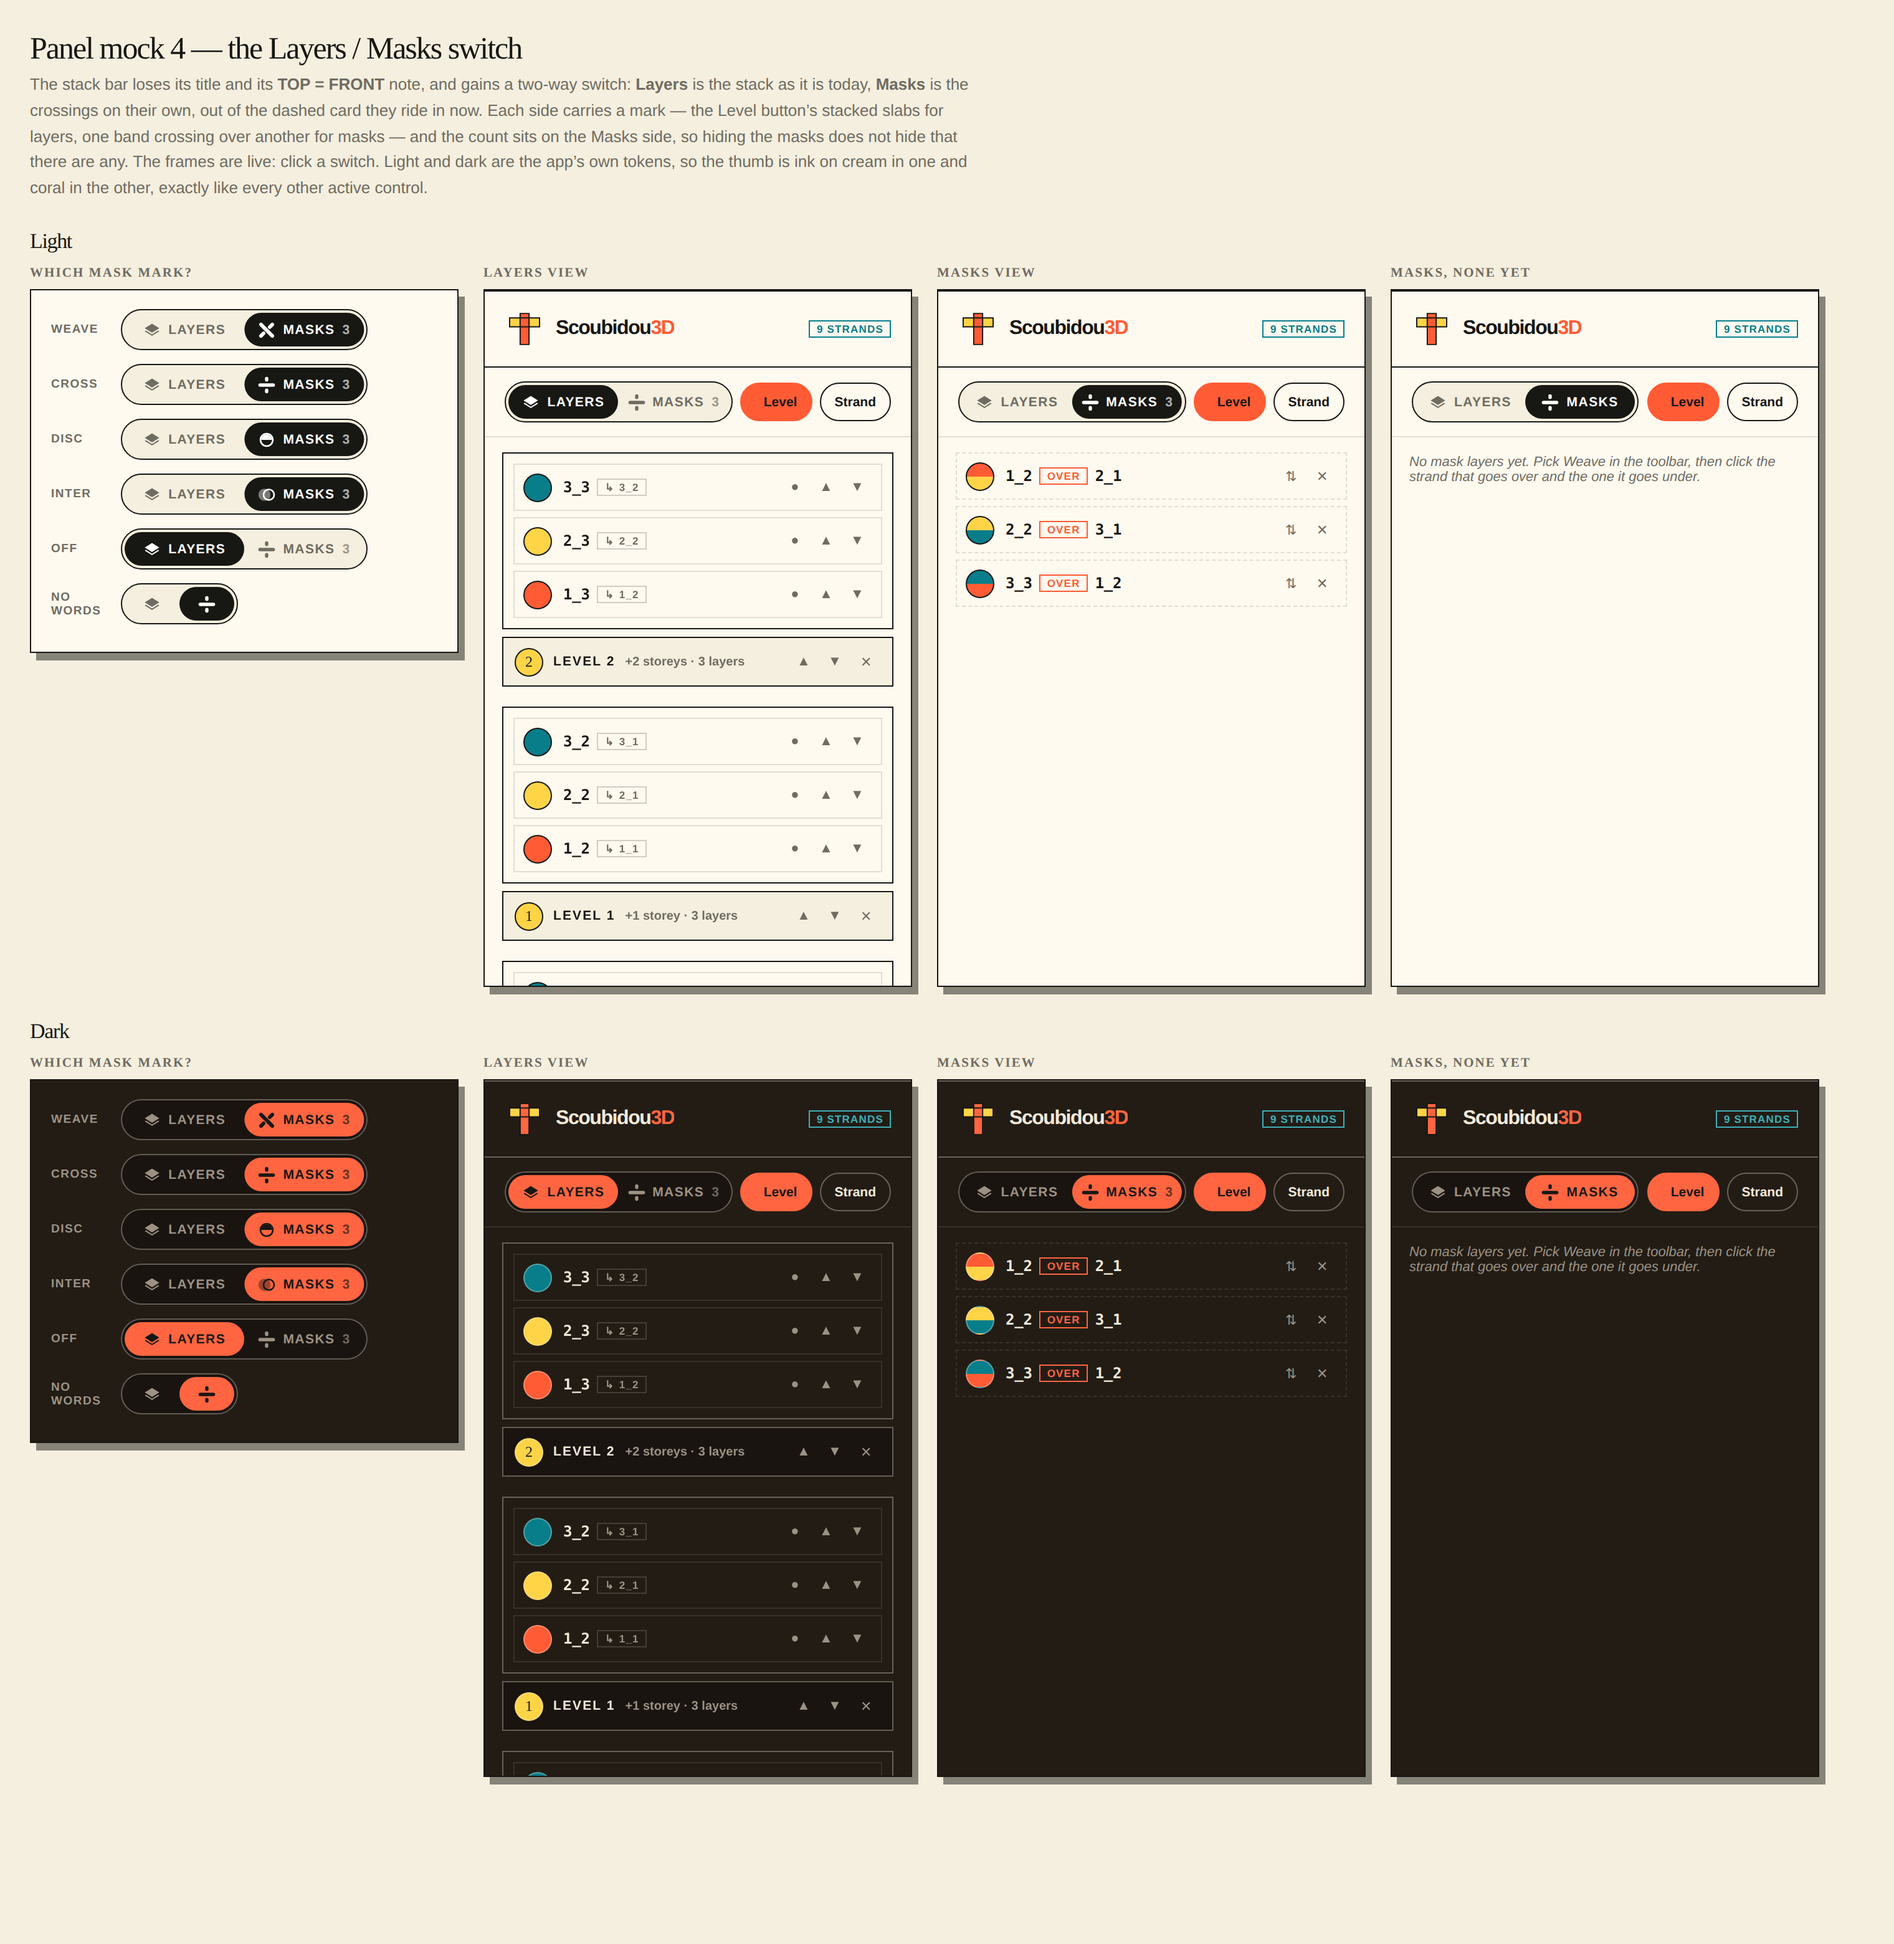
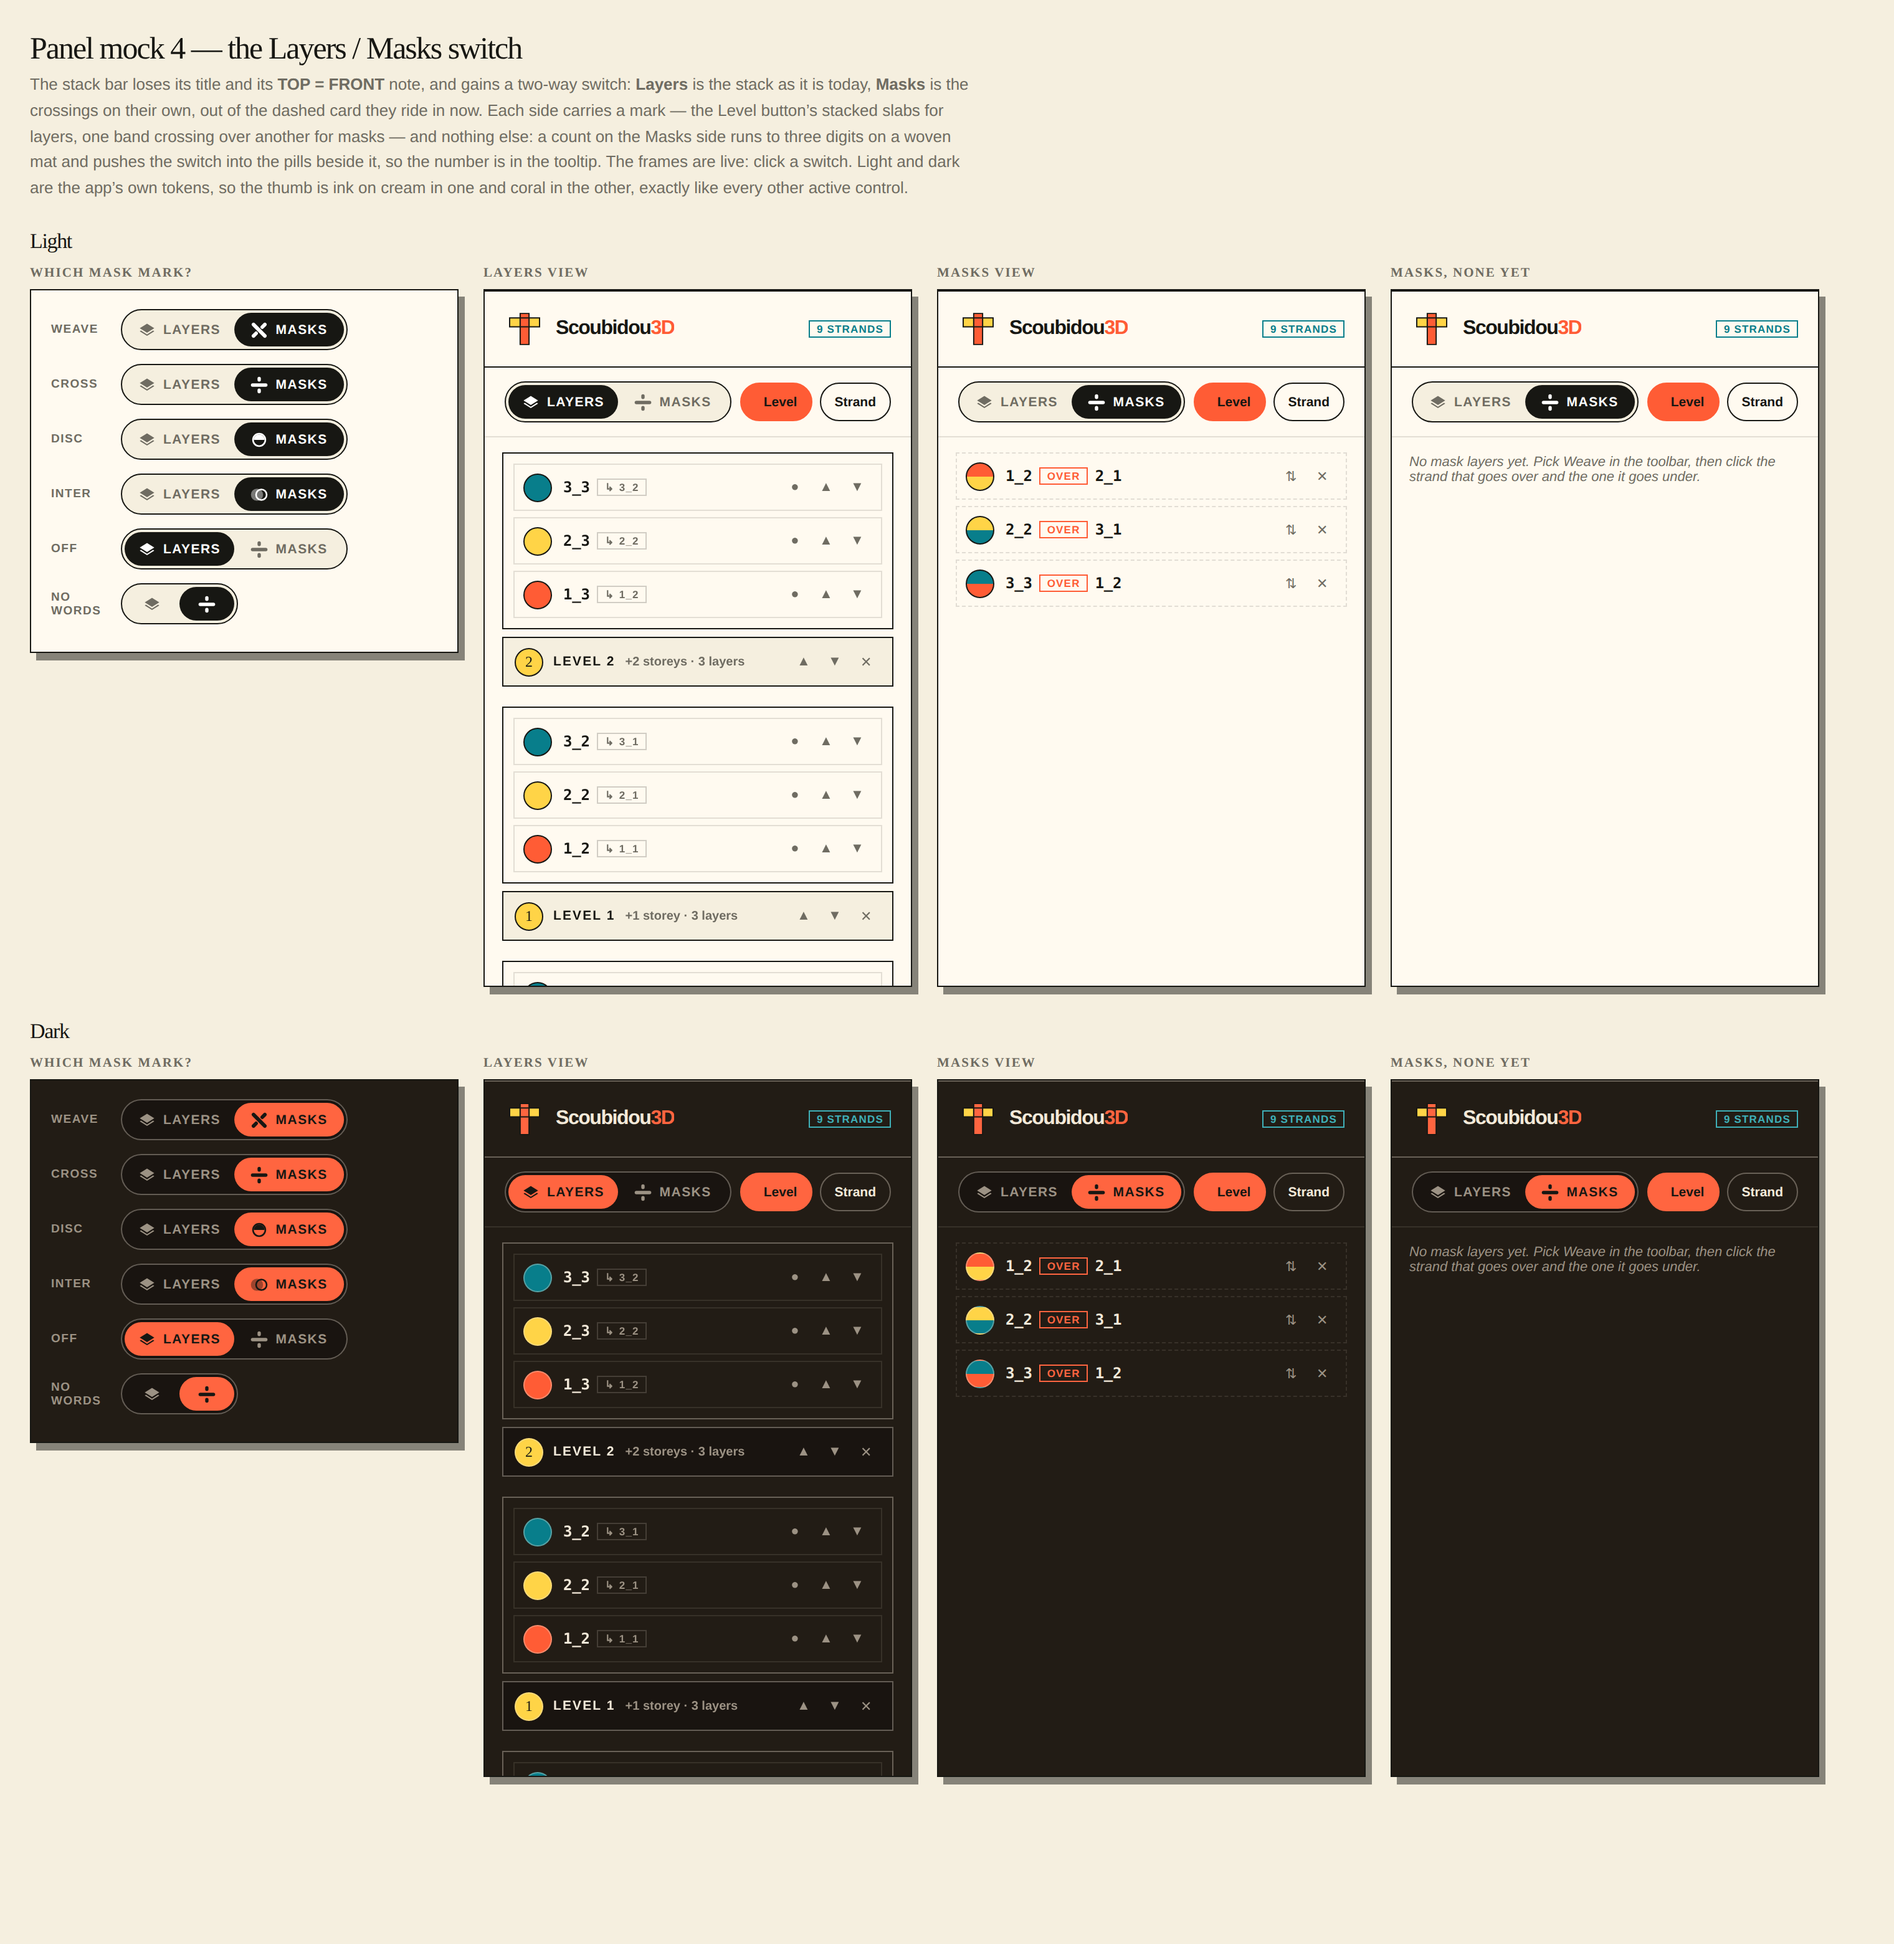
Take the crossing count off the Masks switch
A switch is a control, not a readout. The count was there so that hiding
the masks would not hide that there are any — but a woven mat has 528 of
them, and three digits inside the tab pushed the switch out into the
Level and Strand pills beside it, which is the one thing the bar has no
room for. The number moves to the tab's own tooltip, where asking for it
costs nothing and it can be as long as it likes.

Claude-Session: https://claude.ai/code/session_012FbQxw6CHwwQM443T8U9VZ

diff --git a/docs/panel-mocks/mock-4-layer-mask-switch.html b/docs/panel-mocks/mock-4-layer-mask-switch.html
@@ -16,10 +16,12 @@
        once and then read forever.
        So: drop both, and spend the space on a two-way switch — LAYERS | MASKS —
        that says what the panel is showing AND changes it. Each side carries its
-       own mark (the stacked slabs the Level button already uses; the crossing
-       bands the Weave tool already uses), so the two are told apart without
-       reading, and the "mask" that gets made with Weave is visibly the same
-       thing as the "masks" this side lists. */
+       own mark (the stacked slabs the Level button already uses; crossing bands
+       for a mask), so the two are told apart without reading, and the "mask" you
+       make with Weave is visibly the same thing as the "masks" this side lists.
+       Two words and two marks, and nothing else — a count on the Masks side runs
+       to three digits on a woven mat, and pushes the switch into the pills beside
+       it, so the number belongs in the tooltip. */
 
     /* ---- the switch --------------------------------------------------------
        Two equal columns with a filled thumb sliding between them: the thumb takes
@@ -89,14 +91,6 @@
       height: 14px;
       flex: 0 0 auto;
       fill: currentColor;
-    }
-
-    /* The count rides on the MASKS side so the number stays visible from the
-       Layers side — hiding the masks must not hide that there are any. It flips
-       to the thumb's ink when that side is on. */
-    .viewswitch em {
-      font-style: normal;
-      opacity: 0.65;
     }
 
     /* ---- the masks view ----------------------------------------------------
@@ -318,17 +312,17 @@
      * how the panel hears about a press. `iconOnly` drops the words, which is the
      * other reading of "take the text out of the bar".
      */
-    function makeSwitch({ mark = MASK_ICON, count = 0, iconOnly = false, onChange }) {
+    function makeSwitch({ mark = MASK_ICON, iconOnly = false, onChange }) {
       const sw = el('div', 'viewswitch' + (iconOnly ? ' icons' : ''));
       sw.setAttribute('role', 'tablist');
       sw.setAttribute('aria-label', 'What the panel is showing');
       sw.appendChild(el('span', 'viewswitch-thumb'));
 
-      const tab = (key, icon, label, extra) => {
+      const tab = (key, icon, label) => {
         const b = el('button');
         b.type = 'button';
         b.setAttribute('role', 'tab');
-        b.innerHTML = icon + (iconOnly ? '' : `<span>${label}</span>${extra ?? ''}`);
+        b.innerHTML = icon + (iconOnly ? '' : `<span>${label}</span>`);
         b.title =
           key === 'layers'
             ? 'Show the layer stack — top of the panel is the front of the scene'
@@ -337,7 +331,7 @@
         return b;
       };
       const layersTab = tab('layers', LAYERS_ICON, 'Layers');
-      const masksTab = tab('masks', mark, 'Masks', count ? `<em>${count}</em>` : '');
+      const masksTab = tab('masks', mark, 'Masks');
       sw.appendChild(layersTab);
       sw.appendChild(masksTab);
 
@@ -374,7 +368,6 @@
       document.body.appendChild(panel);
 
       const sw = makeSwitch({
-        count: masks.length,
         iconOnly: !!Q.get('icons'),
         onChange: (next) => showView(next, masks, stack),
       });
@@ -513,9 +506,9 @@
         return line;
       };
       for (const [key, mark] of Object.entries(MASK_MARKS)) {
-        document.body.appendChild(row(key, { mark, count: 3 }, 'masks'));
+        document.body.appendChild(row(key, { mark }, 'masks'));
       }
-      document.body.appendChild(row('off', { mark: MASK_MARKS.cross, count: 3 }, 'layers'));
+      document.body.appendChild(row('off', { mark: MASK_MARKS.cross }, 'layers'));
       document.body.appendChild(
         row('no words', { mark: MASK_MARKS.cross, iconOnly: true }, 'masks'),
       );
@@ -532,8 +525,9 @@
         'switch: <b>Layers</b> is the stack as it is today, <b>Masks</b> is the crossings on ' +
         'their own, out of the dashed card they ride in now. Each side carries a mark — the ' +
         'Level button’s stacked slabs for layers, one band crossing over another for masks — ' +
-        'and the count sits on the Masks side, so hiding the masks does not hide that there ' +
-        'are any. The frames are live: click a switch. Light and dark are the app’s own ' +
+        'and nothing else: a count on the Masks side runs to three digits on a woven mat and ' +
+        'pushes the switch into the pills beside it, so the number is in the tooltip. ' +
+        'The frames are live: click a switch. Light and dark are the app’s own ' +
         'tokens, so the thumb is ink on cream in one and coral in the other, exactly like ' +
         'every other active control.';
       document.body.appendChild(lede);

diff --git a/src/ui/panel.ts b/src/ui/panel.ts
@@ -567,8 +567,10 @@ export class Panel {
    * Each side carries the mark the app already uses for that thing — the Level
    * button's stacked slabs, and one band crossing over another with the lower
    * one broken where it passes beneath, which is the whole of what a mask says.
-   * The count sits on the Masks side, so putting the masks out of sight does not
-   * put out of sight that there are any.
+   * Two words and two marks, and nothing else: the Masks side used to print the
+   * count, which is three digits on a woven mat and pushed the switch into the
+   * Level and Strand pills beside it. The number is in the tooltip instead — a
+   * switch is a control, not a readout.
    */
   private viewSwitch(): HTMLElement {
     const sw = el('div', 'viewswitch');
@@ -586,12 +588,15 @@ export class Panel {
         'Show the layer stack — the top of the panel is the front of the scene',
       ),
     );
+    const masks = this.scene.masks.length;
     sw.appendChild(
       this.viewTab(
         'masks',
         MASK_ICON,
         'Masks',
-        'Show the mask layers — one crossing each, over above under',
+        masks
+          ? `Show the mask layers — ${plural(masks, 'crossing')}, over above under`
+          : 'Show the mask layers — none yet',
       ),
     );
     return sw;
@@ -603,9 +608,6 @@ export class Panel {
     b.setAttribute('role', 'tab');
     b.setAttribute('aria-selected', String(this.stackView === view));
     b.innerHTML = `${icon}<span>${label}</span>`;
-    if (view === 'masks' && this.scene.masks.length) {
-      b.appendChild(el('em', undefined, String(this.scene.masks.length)));
-    }
     b.title = title;
     b.addEventListener('click', () => this.showStackView(view));
     this.viewTabs[view] = b;
@@ -2096,7 +2098,7 @@ const ABOUT: Array<[string, string]> = [
       'not the whole arm family, and names it — so on a stitch you can see exactly which of its ' +
       'strands you are about to mask. With no mask on a crossing, the higher layer wins. The ' +
       'crossings you have made are a view of their own: the switch at the top of the panel puts ' +
-      '<b>Masks</b> in place of the stack, and carries the count either way.',
+      '<b>Masks</b> in place of the stack.',
   ],
   [
     'The stack',

diff --git a/src/styles.css b/src/styles.css
@@ -314,13 +314,6 @@ button {
   height: 14px;
 }
 
-/* The count rides on the MASKS side, so hiding the masks does not hide that
-   there are any. */
-.viewswitch em {
-  font-style: normal;
-  opacity: 0.65;
-}
-
 .stackbar .pill {
   flex: 0 0 auto;
   min-height: 31px;

diff --git a/docs/panel-mocks/README.md b/docs/panel-mocks/README.md
@@ -53,10 +53,11 @@ the panel already was (`Layers`) and a note you read once and then read forever
 (`TOP = FRONT`), while the masks rode in a dashed card wedged above a stack they are
 not part of — a mask is a crossing, not a storey. Both went, and the space became a
 switch: **Layers | Masks**, a filled thumb sliding between two marks the app already
-uses (the Level button's stacked slabs, and one band crossing over another). The mask
-count rides on the Masks side, so putting the crossings out of sight does not put out
-of sight that there are any, and `TOP = FRONT` moved into the About sheet where the
-rest of the prose lives.
+uses (the Level button's stacked slabs, and one band crossing over another). Two words
+and two marks, and nothing else — the Masks side carried the crossing count for a day,
+which is three digits on a woven mat and pushed the switch into the Level and Strand
+pills beside it, so the number lives in the tooltip instead. `TOP = FRONT` moved into
+the About sheet, where the rest of the prose lives.
 
 Mock 4 is drawn against `../../src/styles.css` rather than `mocks.css` — it changes one
 strip of a panel that already ships, so it is judged in the shipping palette, at the
